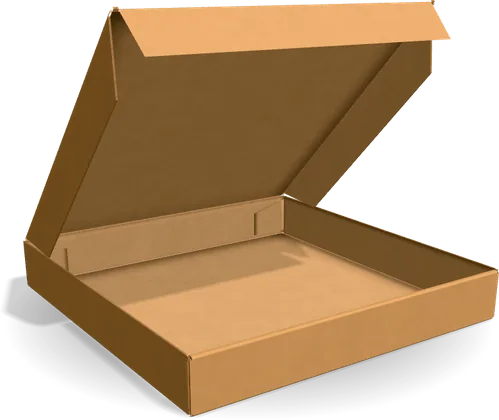
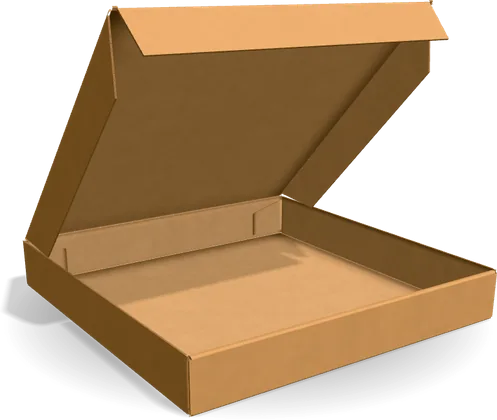
Pizza box: allow for board thickness so the inside matches
The pizza box cut its base to the entered inside size, so the walls'
board ate into it: a 305 × 305 mm box on 1.5 mm board folded to about
302.9 × 301.3 mm inside, and on 3 mm board about 300.8 × 297.6 mm.

The base is now cut 1.4 boards wider and 2.5 boards deeper than the
inside, measured on the folded model: 305 × 305 mm folds to 305.0 ×
305.0 mm on both 1.5 and 3 mm board. The lid widens with the base; its
tuck still sits 0.7 mm inside the inner front on 1.5 mm board.

Saved designs move to layout 5: sheet artwork stretches with the panels.
This also fixes the existing chain: step 3 moved version 2 designs onto
the current grid instead of the version 3 grid, so step 4 then moved
them again. Each step now targets its own frozen grid (sheet-v3,
sheet-v4).

The hand-written reference, golden SVG, thumbnail and social image
follow, and the dieline test no longer exempts the pizza box from the
thickness check.

Claude-Session: https://claude.ai/code/session_01QeanJ5XcsmBb9fnQSqUjJ7

diff --git a/src/lib/packaging/parametric/definitions/pizza-box.ts b/src/lib/packaging/parametric/definitions/pizza-box.ts
@@ -66,37 +66,43 @@ export const pizzaBoxDefinition = {
   derived: [
     ['t', 'thickness'],
     ['clearance', 0.5],
+    // The base is cut wider and deeper than the inside so the folded box
+    // keeps the entered inside: each single wall takes up 0.7 of a board
+    // inside its crease; the double front and the back together 2.5 boards.
+    // Measured on the folded model at 1.5 and 3 mm board.
+    ['W', 'width + 1.4 * t'],
+    ['D', 'depth + 2.5 * t'],
     // The roll strip lets the inner layer drop one board inside the outer
     // one, with a corner tab's board between them.
     ['roll', '2 * t'],
     ['innerHeight', 'height - t'],
-    ['tabWidth', 'min(40, max(20, 0.12 * width))'],
+    ['tabWidth', 'min(40, max(20, 0.12 * W))'],
     ['tabHeight', 'max(4, 2 * t + 1)'],
     // Inner front: clear of the side walls by a board and a little play.
     ['innerInset', 't + clearance'],
     // Corner tabs reach well into the front's double wall.
-    ['ear', 'min(0.9 * height, width / 4)'],
+    ['ear', 'min(0.9 * height, W / 4)'],
     // Lid: rests on the walls and reaches from the back wall's outside to
     // the inner front, so its tuck slides just inside the double front; its
     // flaps go down inside the side walls, and the tuck stops short of the
     // base, whatever the board.
-    ['lidDepth', 'depth - t'],
+    ['lidDepth', 'D - t'],
     ['lidTuck', 'height - 2 * t - 2'],
     ['lidFlap', 'height - 2 * t - clearance'],
     ['backHeight', 'height + t'],
-    ['fingerHole', 'min(12, height / 3, width / 10)'],
+    ['fingerHole', 'min(12, height / 3, W / 10)'],
     ['x0', 'max(height, lidFlap)'],
     ['lidTop', 'lidTuck'],
     ['backTop', 'lidTop + lidDepth'],
     ['y0', 'backTop + backHeight'],
-    ['frontTop', 'y0 + depth'],
+    ['frontTop', 'y0 + D'],
     ['rollTop', 'frontTop + height'],
     ['innerTop', 'rollTop + roll'],
     ['inL', 'x0 + innerInset'],
-    ['inR', 'x0 + width - innerInset'],
+    ['inR', 'x0 + W - innerInset'],
     ['innerBottom', 'innerTop + innerHeight'],
-    ['tabLeft', 'x0 + width / 4'],
-    ['tabRight', 'x0 + 3 * width / 4'],
+    ['tabLeft', 'x0 + W / 4'],
+    ['tabRight', 'x0 + 3 * W / 4'],
     ['half', 'tabWidth / 2'],
     ['lead', 'min(1, tabHeight / 3)'],
     // Corner tabs are cut a board clear of the front and back walls beside them.
@@ -105,8 +111,8 @@ export const pizzaBoxDefinition = {
     ['leftTaper', 'min((leftRoot1 - leftRoot0) / 3, ear * 0.4)'],
     ['leftTabA', 'leftRoot0 + leftTaper'],
     ['leftTabB', 'leftRoot1'],
-    ['rightRoot0', 'x0 + width + t'],
-    ['rightRoot1', 'x0 + width + height'],
+    ['rightRoot0', 'x0 + W + t'],
+    ['rightRoot1', 'x0 + W + height'],
     ['rightTaper', 'min((rightRoot1 - rightRoot0) / 3, ear * 0.4)'],
     ['rightTabA', 'rightRoot0'],
     ['rightTabB', 'rightRoot1 - rightTaper'],
@@ -121,16 +127,16 @@ export const pizzaBoxDefinition = {
   // beside the back wall on the sheet; the lid's tuck and flaps stay clear
   // of the base.
   adjustable: [
-    { key: 'ear', label: 'Corner tabs', min: 5, max: 'max(5, min(width / 2 - t, height))' },
+    { key: 'ear', label: 'Corner tabs', min: 5, max: 'max(5, min(W / 2 - t, height))' },
     { key: 'lidTuck', label: 'Lid tuck', min: 5, max: 'max(5, height - 2 * t)' },
     { key: 'lidFlap', label: 'Lid side flaps', min: 5, max: 'max(5, height - 2 * t)' },
   ],
   panels: ([
-    { id: 'bottom', label: 'BOTTOM', kind: 'body', rect: ['x0', 'y0', 'width', 'depth'] },
+    { id: 'bottom', label: 'BOTTOM', kind: 'body', rect: ['x0', 'y0', 'W', 'D'] },
     // The front wall, lid and lid front sit upside down on the sheet relative
     // to the folded box: artwork placed on one of them alone is turned to
     // read upright on the box.
-    { id: 'front', label: 'FRONT', kind: 'body', artworkRotation: 180, rect: ['x0', 'frontTop', 'width', 'height'] },
+    { id: 'front', label: 'FRONT', kind: 'body', artworkRotation: 180, rect: ['x0', 'frontTop', 'W', 'height'] },
     {
       id: 'frontRoll', label: 'FRONT ROLL', kind: 'flap', rect: ['inL', 'rollTop', 'inR - inL', 'roll'],
       // A score bends through three boards, wider than the two-board strip:
@@ -147,25 +153,25 @@ export const pizzaBoxDefinition = {
         ['frontRoll.x + frontRoll.width', 'frontRoll.y + frontRoll.height + innerHeight'], ['frontRoll.x', 'frontRoll.y + frontRoll.height + innerHeight'],
       ],
     },
-    { id: 'back', label: 'BACK', kind: 'body', rect: ['x0', 'backTop', 'width', 'backHeight'] },
-    { id: 'left', label: 'LEFT', kind: 'body', rect: ['x0 - height', 'y0', 'height', 'depth'] },
-    { id: 'right', label: 'RIGHT', kind: 'body', rect: ['x0 + width', 'y0', 'height', 'depth'] },
+    { id: 'back', label: 'BACK', kind: 'body', rect: ['x0', 'backTop', 'W', 'backHeight'] },
+    { id: 'left', label: 'LEFT', kind: 'body', rect: ['x0 - height', 'y0', 'height', 'D'] },
+    { id: 'right', label: 'RIGHT', kind: 'body', rect: ['x0 + W', 'y0', 'height', 'D'] },
     ...cornerTabs('left'),
     ...cornerTabs('right'),
     // The lid, hinged on the back wall's top edge.
-    { id: 'top', label: 'TOP', kind: 'body', artworkRotation: 180, rect: ['x0', 'lidTop', 'width', 'lidDepth'] },
+    { id: 'top', label: 'TOP', kind: 'body', artworkRotation: 180, rect: ['x0', 'lidTop', 'W', 'lidDepth'] },
     {
       id: 'lidFront', label: 'LID FRONT', kind: 'flap', artworkRotation: 180,
-      outline: [['x0 + clearance', 'lidTop'], ['x0 + width - clearance', 'lidTop'], ['x0 + width - clearance - tuckChamfer', 0], ['x0 + clearance + tuckChamfer', 0]],
+      outline: [['x0 + clearance', 'lidTop'], ['x0 + W - clearance', 'lidTop'], ['x0 + W - clearance - tuckChamfer', 0], ['x0 + clearance + tuckChamfer', 0]],
     },
     lidFlap('lidLeft', 'x0', 'x0 - lidFlap'),
-    lidFlap('lidRight', 'x0 + width', 'x0 + width + lidFlap'),
+    lidFlap('lidRight', 'x0 + W', 'x0 + W + lidFlap'),
   ] satisfies PanelSpec[]).map(finish),
   cuts: [
     ...slot('tabLeft'),
     ...slot('tabRight'),
     // The finger hole across the roll strip, centred on the front.
-    { arc: { center: ['x0 + width / 2', 'rollTop + roll / 2'], radius: 'fingerHole', from: 0, to: 360, segments: 24 } },
+    { arc: { center: ['x0 + W / 2', 'rollTop + roll / 2'], radius: 'fingerHole', from: 0, to: 360, segments: 24 } },
   ],
   validations: [
     { require: 'height >= max(20, 6 * t)', message: 'The wall height is too small for this board. Use a wall height of at least {max(20, 6 * t)} mm.' },

diff --git a/scripts/reference/pizza-box/geometry.ts b/scripts/reference/pizza-box/geometry.ts
@@ -26,23 +26,27 @@ export function sanitizePizzaBoxDimensions(value: CartonDimensions): CartonDimen
 
 export function pizzaBoxSizes(d: CartonDimensions) {
   const t = d.thickness, clearance = 0.5;
+  // The base is cut wider and deeper than the inside: each single wall
+  // takes up 0.7 of a board inside its crease, the double front and the back
+  // together 2.5 boards.
+  const W = d.width + 1.4 * t, D = d.depth + 2.5 * t;
   // The roll strip lets the inner layer drop one board inside the outer
   // one, with a corner tab's board between them.
   const roll = 2 * t;
   const innerHeight = d.height - t;
-  const tab = { width: Math.min(40, Math.max(20, 0.12 * d.width)), height: Math.max(4, 2 * t + 1) };
+  const tab = { width: Math.min(40, Math.max(20, 0.12 * W)), height: Math.max(4, 2 * t + 1) };
   // Inner front: clear of the side walls by a board and a little play.
   const innerInset = t + clearance;
   // Corner tabs reach well into the front's double wall.
-  const ear = Math.min(0.9 * d.height, d.width / 4);
+  const ear = Math.min(0.9 * d.height, W / 4);
   // Lid: rests on the walls; its flaps go down inside them.
-  const lidDepth = d.depth - t;
+  const lidDepth = D - t;
   // The lid's front tuck stops short of the base, whatever the board.
   const lidTuck = d.height - 2 * t - 2;
   const lidFlap = d.height - 2 * t - clearance;
   const backHeight = d.height + t;
-  const fingerHole = Math.min(12, d.height / 3, d.width / 10);
-  return { t, clearance, roll, innerHeight, tab, innerInset, ear, lidDepth, lidTuck, lidFlap, backHeight, fingerHole };
+  const fingerHole = Math.min(12, d.height / 3, W / 10);
+  return { t, clearance, W, D, roll, innerHeight, tab, innerInset, ear, lidDepth, lidTuck, lidFlap, backHeight, fingerHole };
 }
 
 const LABELS: Record<string, string> = {
@@ -56,12 +60,12 @@ export function pizzaBoxSheet(input: CartonDimensions) {
   const d = sanitizePizzaBoxDimensions(input);
   const s = pizzaBoxSizes(d);
   const { t } = s;
-  const w = d.width, h = d.height;
+  const w = s.W, h = d.height;
   // Columns: left wall | base | right wall; rows: lid tuck, lid, back wall,
   // base, front wall, roll strip, inner front and its tabs.
   const x0 = Math.max(h, s.lidFlap);
   const lidTop = s.lidTuck, backTop = lidTop + s.lidDepth, y0 = backTop + s.backHeight;
-  const frontTop = y0 + d.depth, rollTop = frontTop + h, innerTop = rollTop + s.roll;
+  const frontTop = y0 + s.D, rollTop = frontTop + h, innerTop = rollTop + s.roll;
   const panels: ExportPanel[] = [];
   const add = (id: string, kind: ExportPanel['kind'], outline: PointMm[], fold?: PointMm[], artworkRotation?: 180) => {
     const xs = outline.map(point => point.x), ys = outline.map(point => point.y);
@@ -74,7 +78,7 @@ export function pizzaBoxSheet(input: CartonDimensions) {
   };
   const rect = (x: number, y: number, width: number, height: number) => rectangleOutline({ x, y, width, height } as ExportPanel);
 
-  add('bottom', 'body', rect(x0, y0, w, d.depth));
+  add('bottom', 'body', rect(x0, y0, w, s.D));
   // The front wall, lid and lid front sit upside down on the sheet relative
   // to the folded box: artwork placed on one of them alone is turned to read
   // upright on the box.
@@ -95,8 +99,8 @@ export function pizzaBoxSheet(input: CartonDimensions) {
   innerOutline.push({ x: inL, y: innerBottom });
   add('frontInner', 'flap', innerOutline, rect(inL, innerTop, inR - inL, s.innerHeight));
   add('back', 'body', rect(x0, backTop, w, s.backHeight));
-  add('left', 'body', rect(x0 - h, y0, h, d.depth));
-  add('right', 'body', rect(x0 + w, y0, h, d.depth));
+  add('left', 'body', rect(x0 - h, y0, h, s.D));
+  add('right', 'body', rect(x0 + w, y0, h, s.D));
   // Corner tabs on the side walls' ends, tapered so they slide in.
   for (const [side, wallX, outward] of [['left', x0 - h, -1], ['right', x0 + w, 1]] as const) {
     // Cut a board clear of the front and back walls beside them.

diff --git a/src/lib/packaging/layout-migration.ts b/src/lib/packaging/layout-migration.ts
@@ -7,6 +7,7 @@ import { splitTopSheetV1 } from './templates/split-top/sheet-v1';
 import { splitTopSheet, splitTopSizes } from './templates/split-top/geometry';
 import { pizzaBoxSheetV2 } from './templates/pizza-box/sheet-v2';
 import { pizzaBoxSheetV3 } from './templates/pizza-box/sheet-v3';
+import { pizzaBoxSheetV4 } from './templates/pizza-box/sheet-v4';
 import { pizzaBoxSheet } from './templates/pizza-box/geometry';
 import type { ArtworkByPanel, ArtworkPlacement } from './artwork';
 import type { FullDielineArtworkLayer } from './full-dieline-artwork';
@@ -79,11 +80,15 @@ const STEPS: Record<string, Step[]> = {
     // with an inner layer and roll strip, corner tabs on the side walls'
     // ends, a lid sized to rest on the walls; sheet layers move and stretch
     // to keep the base's and walls' edges.
-    state => moveSheetLayers(state, s => pizzaBoxSheetV2(s.dimensions), s => pizzaBoxSheet(s.dimensions), ['bottom', 'left', 'right', 'front', 'back']),
+    state => moveSheetLayers(state, s => pizzaBoxSheetV2(s.dimensions), s => pizzaBoxSheetV3(s.dimensions), ['bottom', 'left', 'right', 'front', 'back']),
     // 4: the lid is cut a board longer so it reaches the inner front; the
     // walls and base move down a board on the grid. Sheet layers move with
     // them, keeping their place from the lid's hinge.
-    state => moveSheetLayers(state, s => pizzaBoxSheetV3(s.dimensions), s => pizzaBoxSheet(s.dimensions), ['bottom', 'left', 'right', 'front', 'back']),
+    state => moveSheetLayers(state, s => pizzaBoxSheetV3(s.dimensions), s => pizzaBoxSheetV4(s.dimensions), ['bottom', 'left', 'right', 'front', 'back']),
+    // 5: the base is cut wider and deeper than the inside (by 1.4 boards
+    // across, 2.5 front to back) so the folded box keeps the entered inside;
+    // the walls and lid widen with it. Sheet layers stretch with the panels.
+    state => moveSheetLayers(state, s => pizzaBoxSheetV4(s.dimensions), s => pizzaBoxSheet(s.dimensions), ['bottom', 'left', 'right', 'front', 'back', 'top']),
   ],
 };
 

diff --git a/src/lib/packaging/templates/pizza-box/sheet-v3.ts b/src/lib/packaging/templates/pizza-box/sheet-v3.ts
@@ -2,13 +2,13 @@ import type { CartonDimensions } from '../../reverse-tuck';
 import { compileParametricSheet } from '@/lib/packaging/parametric/sheet';
 import { pizzaBoxDefinition } from '@/lib/packaging/parametric/definitions/pizza-box';
 
-// The pizza box's design grid as it stood for layout version 3: the current
-// die with the lid a board shorter (depth − 2t). Saved designs move from it
-// onto the current grid.
+// The pizza box's design grid as it stood for layout version 3: the version 4
+// die (sheet-v4.ts, base cut to the inside size) with the lid a board shorter
+// (depth − 2t). Saved designs move from it onto the version 4 grid.
 
 const pizzaBoxV3 = compileParametricSheet({
   ...pizzaBoxDefinition,
-  derived: pizzaBoxDefinition.derived.map(([key, value]) => [key, key === 'lidDepth' ? 'depth - 2 * t' : value] as [string, typeof value]),
+  derived: pizzaBoxDefinition.derived.map(([key, value]) => [key, key === 'lidDepth' ? 'depth - 2 * t' : key === 'W' ? 'width' : key === 'D' ? 'depth' : value] as [string, typeof value]),
 });
 
 export function pizzaBoxSheetV3(input: CartonDimensions) {

diff --git a/src/lib/packaging/templates/pizza-box/sheet-v4.ts b/src/lib/packaging/templates/pizza-box/sheet-v4.ts
@@ -1,0 +1,17 @@
+import type { CartonDimensions } from '../../reverse-tuck';
+import { compileParametricSheet } from '@/lib/packaging/parametric/sheet';
+import { pizzaBoxDefinition } from '@/lib/packaging/parametric/definitions/pizza-box';
+
+// The pizza box's design grid as it stood for layout version 4: the current
+// die with the base cut to the inside size (W = width, D = depth), before it
+// grew to allow for the walls' board. Saved designs move from it onto the
+// current grid.
+
+const pizzaBoxV4 = compileParametricSheet({
+  ...pizzaBoxDefinition,
+  derived: pizzaBoxDefinition.derived.map(([key, value]) => [key, key === 'W' ? 'width' : key === 'D' ? 'depth' : value] as [string, typeof value]),
+});
+
+export function pizzaBoxSheetV4(input: CartonDimensions) {
+  return pizzaBoxV4.sheet(input);
+}

diff --git a/docs/FOLD_TEST.md b/docs/FOLD_TEST.md
@@ -35,7 +35,7 @@ The unit tests (`scripts/dieline.test.cjs`) check the arithmetic: panel sizes in
 | Pillow box | 120 × 70 × 30 (outer) | card | The curved ends fold in without cracking; the box is sized by its outside only. |
 | Gable box | 80 × 50 × 70 | card | The roofs meet and the two handles line up so their holes match; the bottom locks. |
 | Sleeve | 120 × 40 × 80 | card | Slides over a block of the inside size with light friction. |
-| Pizza box | 200 × 200 × 40 | E-flute | Front roll locks, the tabs tuck into the side walls, the lid tuck closes. The template doesn't add board thickness, so check the fit. |
+| Pizza box | 200 × 200 × 40 | E-flute | Front roll locks, the tabs tuck into the side walls, the lid tuck closes. The base allows for the walls' board, so the inside should match what you entered. |
 | Drawer box (tray and sleeve) | 100 × 60 × 30 | card | The tray slides into the sleeve from either end without catching; not loose enough to fall out when tilted. |
 | Rigid lid and base | 120 × 80 × 40 | card (in place of greyboard) | The lid slips over the base; turn-ins sit flat inside the walls. In greyboard, the lid gap grows with the board: check it at 2 mm. |
 | Four-corner tray | 120 × 80 × 40 | card | Each ear glues flat inside its side wall; the walls stand square without bowing. |
